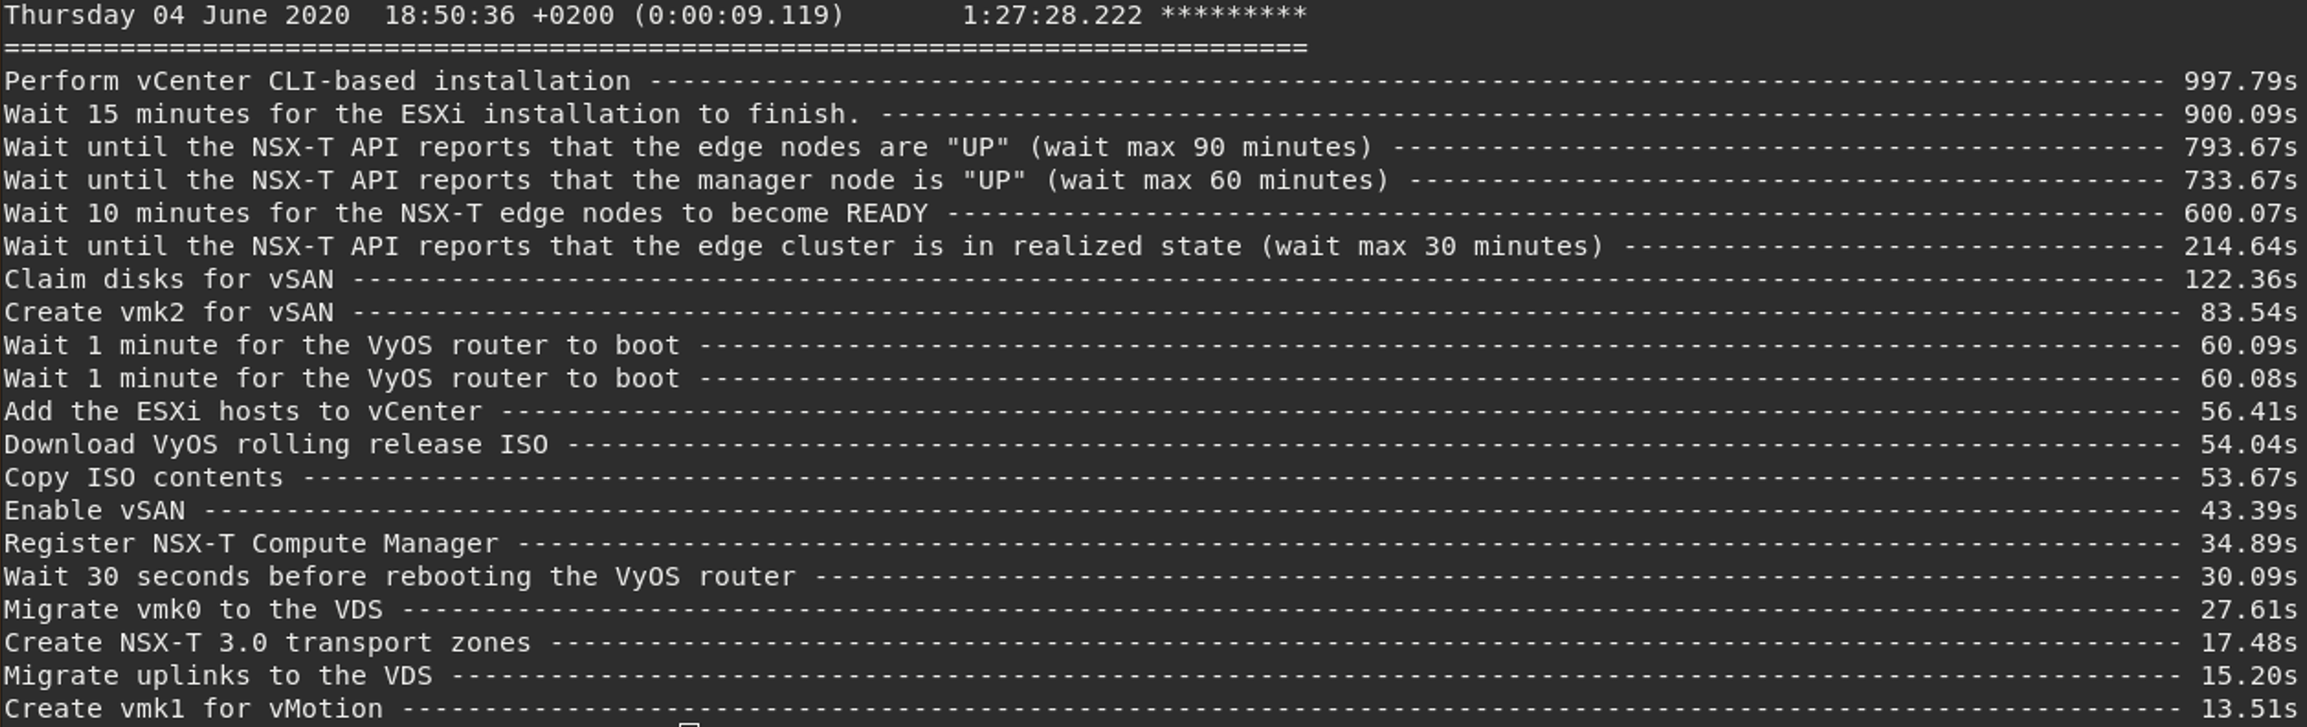
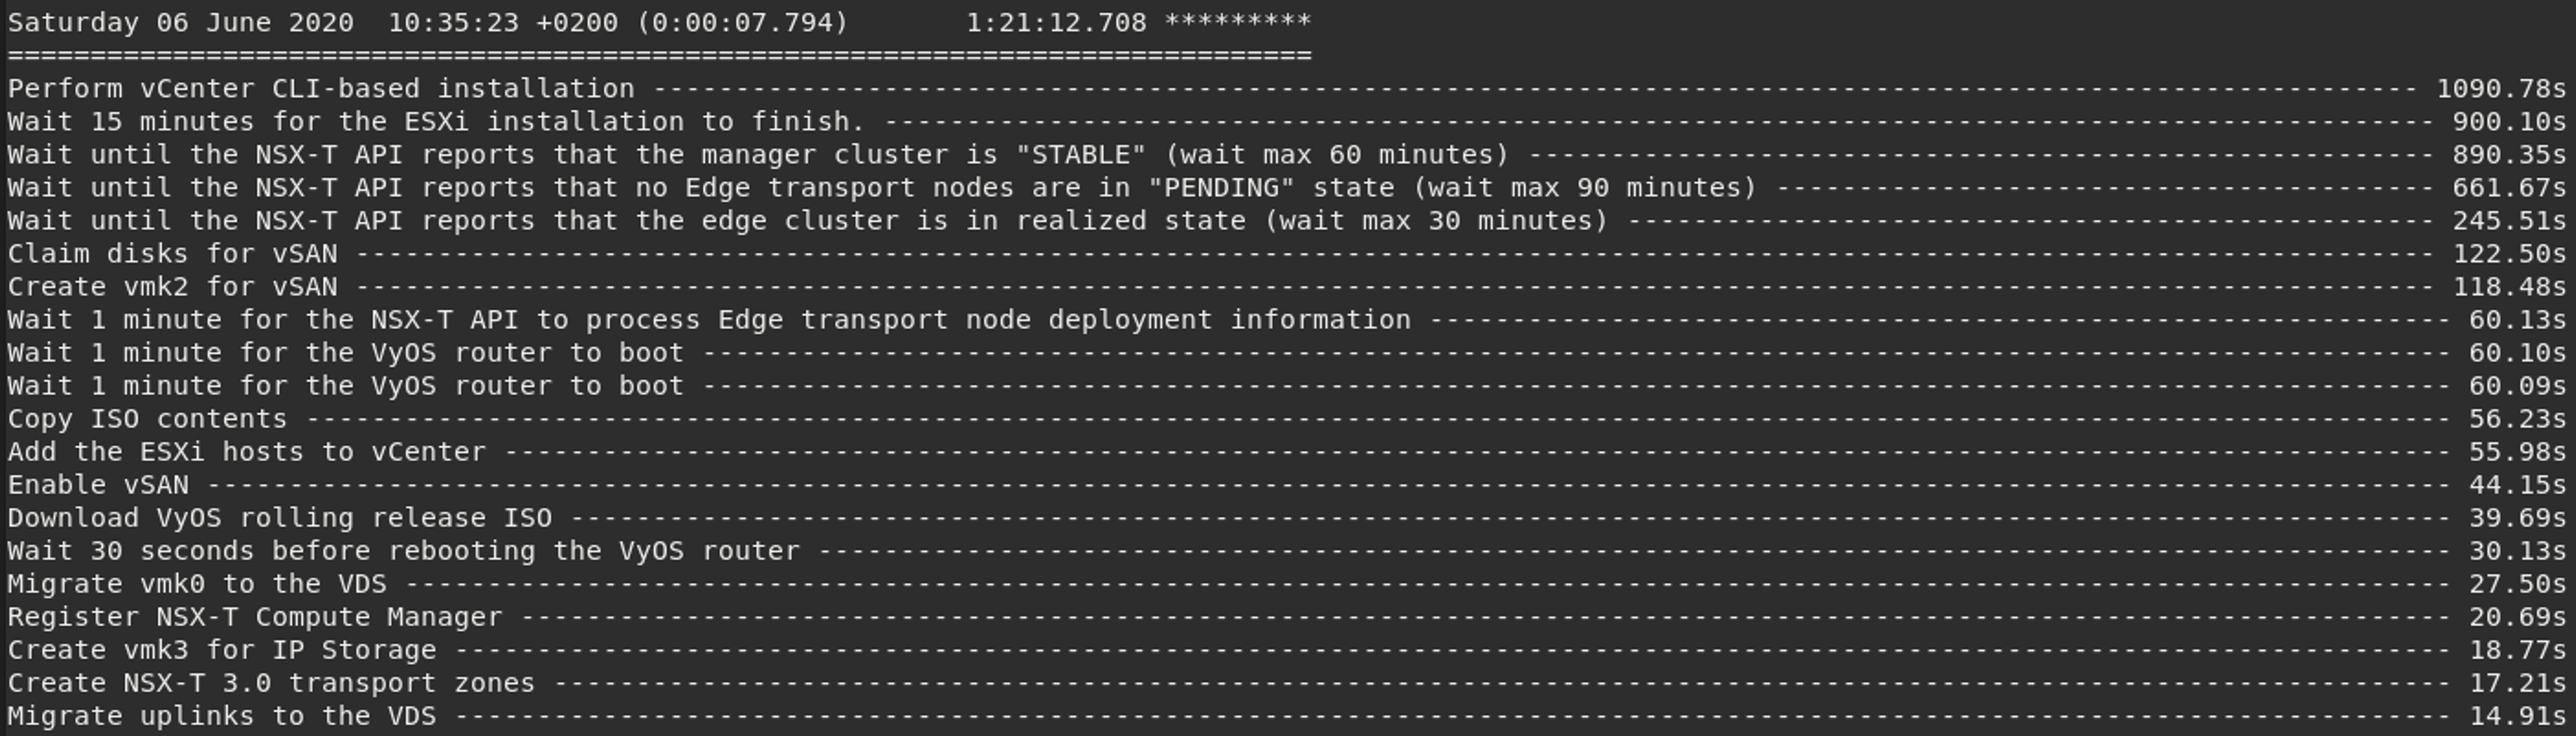
updated recap

diff --git a/README.md b/README.md
@@ -88,7 +88,7 @@ Using the default settings the following is deployed:
    * Tier-0 Gateway (NSX-T 3.0 only)
    * BGP peering with VyOS router (NSX-T 3.0 only)
 
-Ansible play recap from 4-JUNE-2020:
+Ansible play recap from 6-JUNE-2020:
 
 ![](images/play-recap.png)
 
